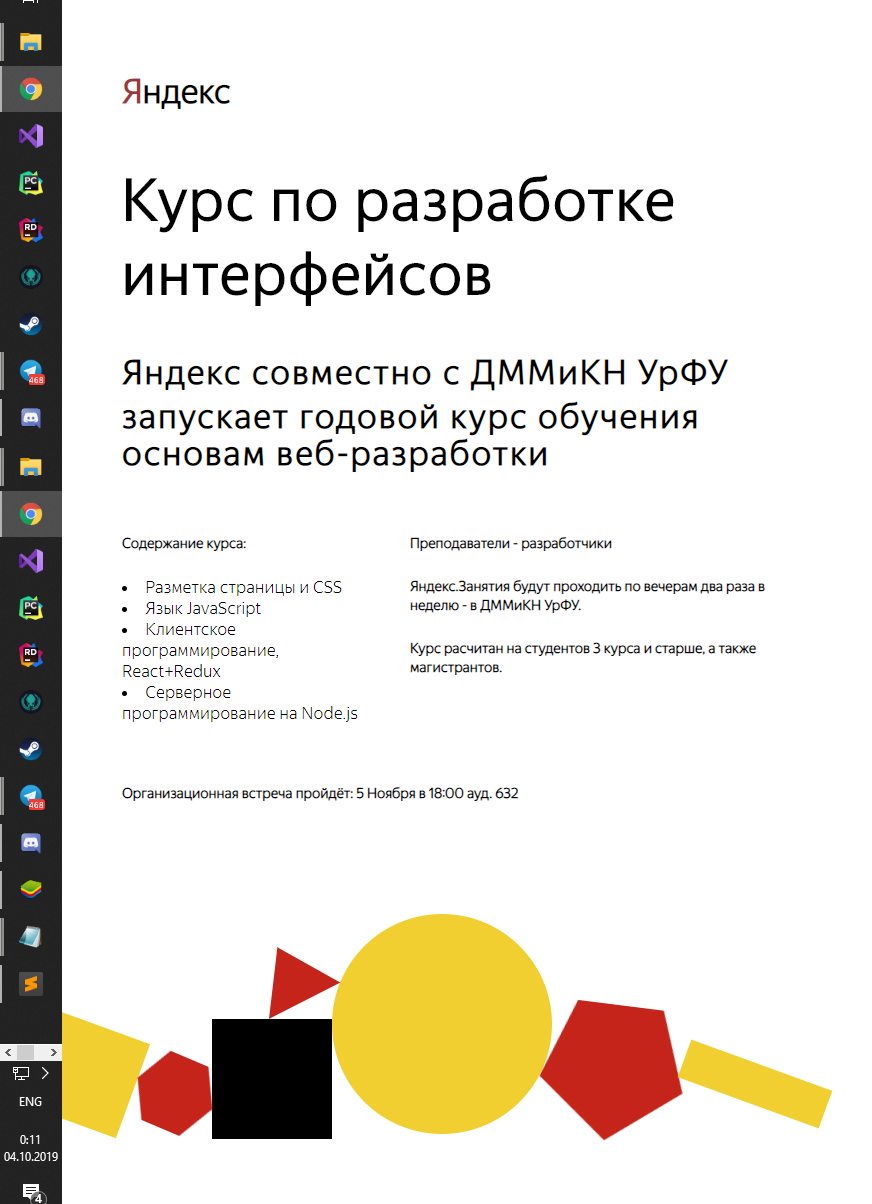
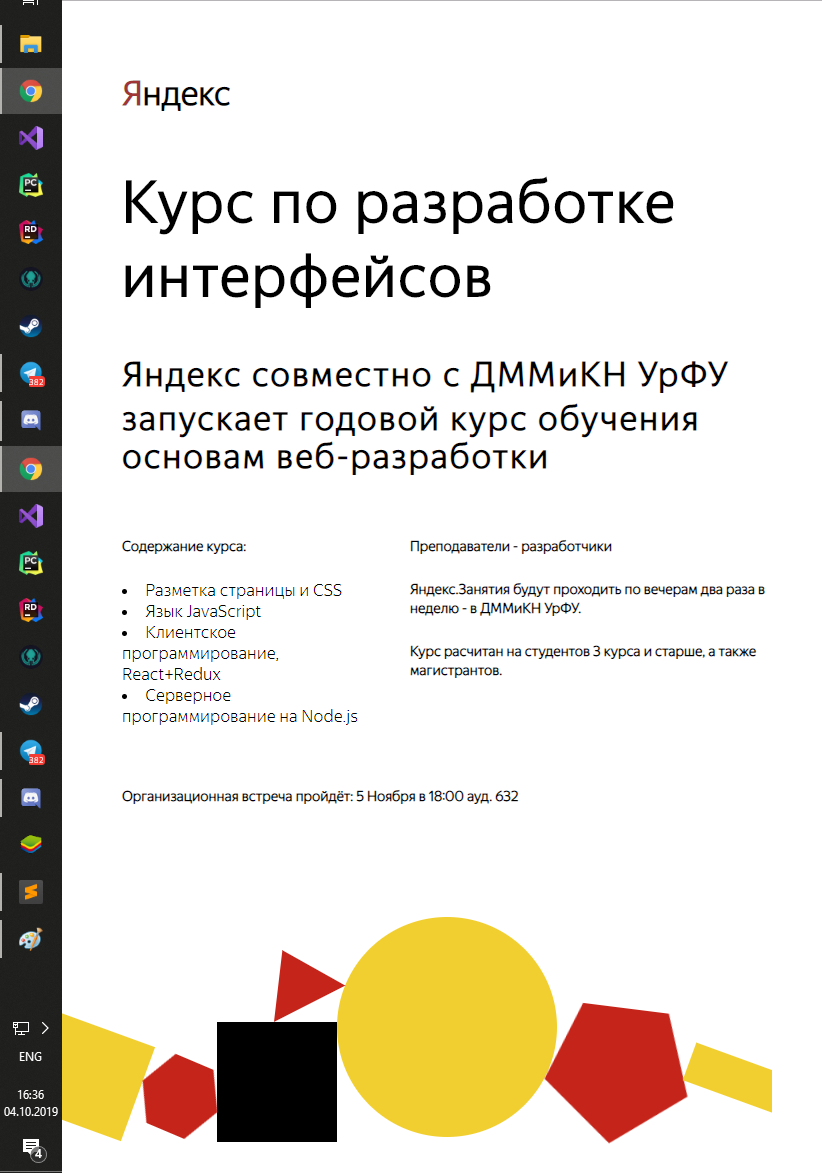
add white-shell

diff --git a/index.html b/index.html
@@ -15,7 +15,7 @@
 				<h1>Курс  по  разработке интерфейсов</h1>
 			</div>
 
-			<div class="main-header-description">	
+		    <div class="main-header-description">	
 				<h3>Яндекс совместно с ДММиКН УрФУ запускает годовой курс обучения основам веб-разработки</h3>
 			</div>	
 
@@ -24,33 +24,35 @@
 		<div class="description-info">
 				<div class="row-info-left">	
 					<h5>Содержание курса:</h5>
-					<li>Разметка страницы и CSS</li>
-					<li>Язык JavaScript</li>
-					<li>Клиентское программирование, React+Redux</li>
-					<li>Серверное программирование на Node.js</li>
+			  		<li>Разметка страницы и CSS</li>
+			  		<li>Язык JavaScript</li>
+			  		<li>Клиентское программирование, React+Redux</li>
+			  		<li>Серверное программирование на Node.js</li>
 				</div>
 			  
-				<div class="row-info-right">	
+			   	<div class="row-info-right">	
 					<h5>Преподаватели - разработчики</h5>
 					<h5>Яндекс.Занятия будут проходить по вечерам два раза в неделю - в ДММиКН УрФУ.</h5>
 					<ul>
 					</ul>
 					<h5>Курс расчитан на студентов 3 курса и старше, а также магистрантов.</h5>  
-				</div>
+			  	</div>
 		</div>
 
 		<div class="time-info-description">
 			<h5>Организационная встреча пройдёт: 5 Ноября в 18:00 ауд. 632 </h5>
 		</div>  
 
-		<div class="figures">
-			<div id="rectangle"></div>
-			<div id="hexagon"></div>
-			<div id="square"></div>
-			<div id="triangle-up"></div>
-			<div id="circle"></div>
-			<div id="pentagon"></div>
-			<div id="srectangle"></div>
-		</div>	
+		<div class ="white-shell">
+			<div class="figures">
+				<div id="rectangle"></div>
+				<div id="hexagon"></div>
+				<div id="square"></div>
+				<div id="triangle-up"></div>
+				<div id="circle"></div>
+				<div id="pentagon"></div>
+				<div id="srectangle"></div>
+			</div>
+		</div>
 	</body>
 </html>

diff --git a/style.css b/style.css
@@ -8,8 +8,8 @@ body{
 	font-family: 'Yandex Sans';	
 	font-size: 22pt;
 	font-weight: normal;
-    width: 650px;
-    margin-left: 60px;
+  width: 650px;
+  margin-left: 60px;
 	margin-right: 750px;
 	margin-top: 70px;	
 }
@@ -17,19 +17,14 @@ header{
   margin-top: 50px;
   letter-spacing: 2px;
 }
-.white-shell{
-	overflow:  hidden;
-    width: 800px;
-	height: 1400px;
-}
 .main-header-name{
   font-family: 'Yandex Sans'; 
 }
 .description-info{
   display: flex;
   flex-direction: row;
-  margin-top: 35px;
-  font-size: 13pt;
+	margin-top: 35px;
+	font-size: 13pt;
 }
 .row-info-right{
   margin-left: 30px;
@@ -38,8 +33,14 @@ header{
   font-size: 13pt;
 	margin-top: 60px;
 }
+.white-shell{
+  margin-left: -60px;
+  overflow: hidden
+}
 .figures{
 	margin-top: 180px;
+  margin-left: 65px;
+  height: 150px;
 	display: inline-block
 }
 #square {
@@ -60,8 +61,8 @@ header{
 
 #srectangle{
 	transform: rotate(20deg);
-    margin-top: 100px;
-	margin-left: 559px; 
+        margin-top: 100px;
+	margin-left: 558px; 
 	width: 150px;
 	height: 40px;
 	background: #f1cf30;
